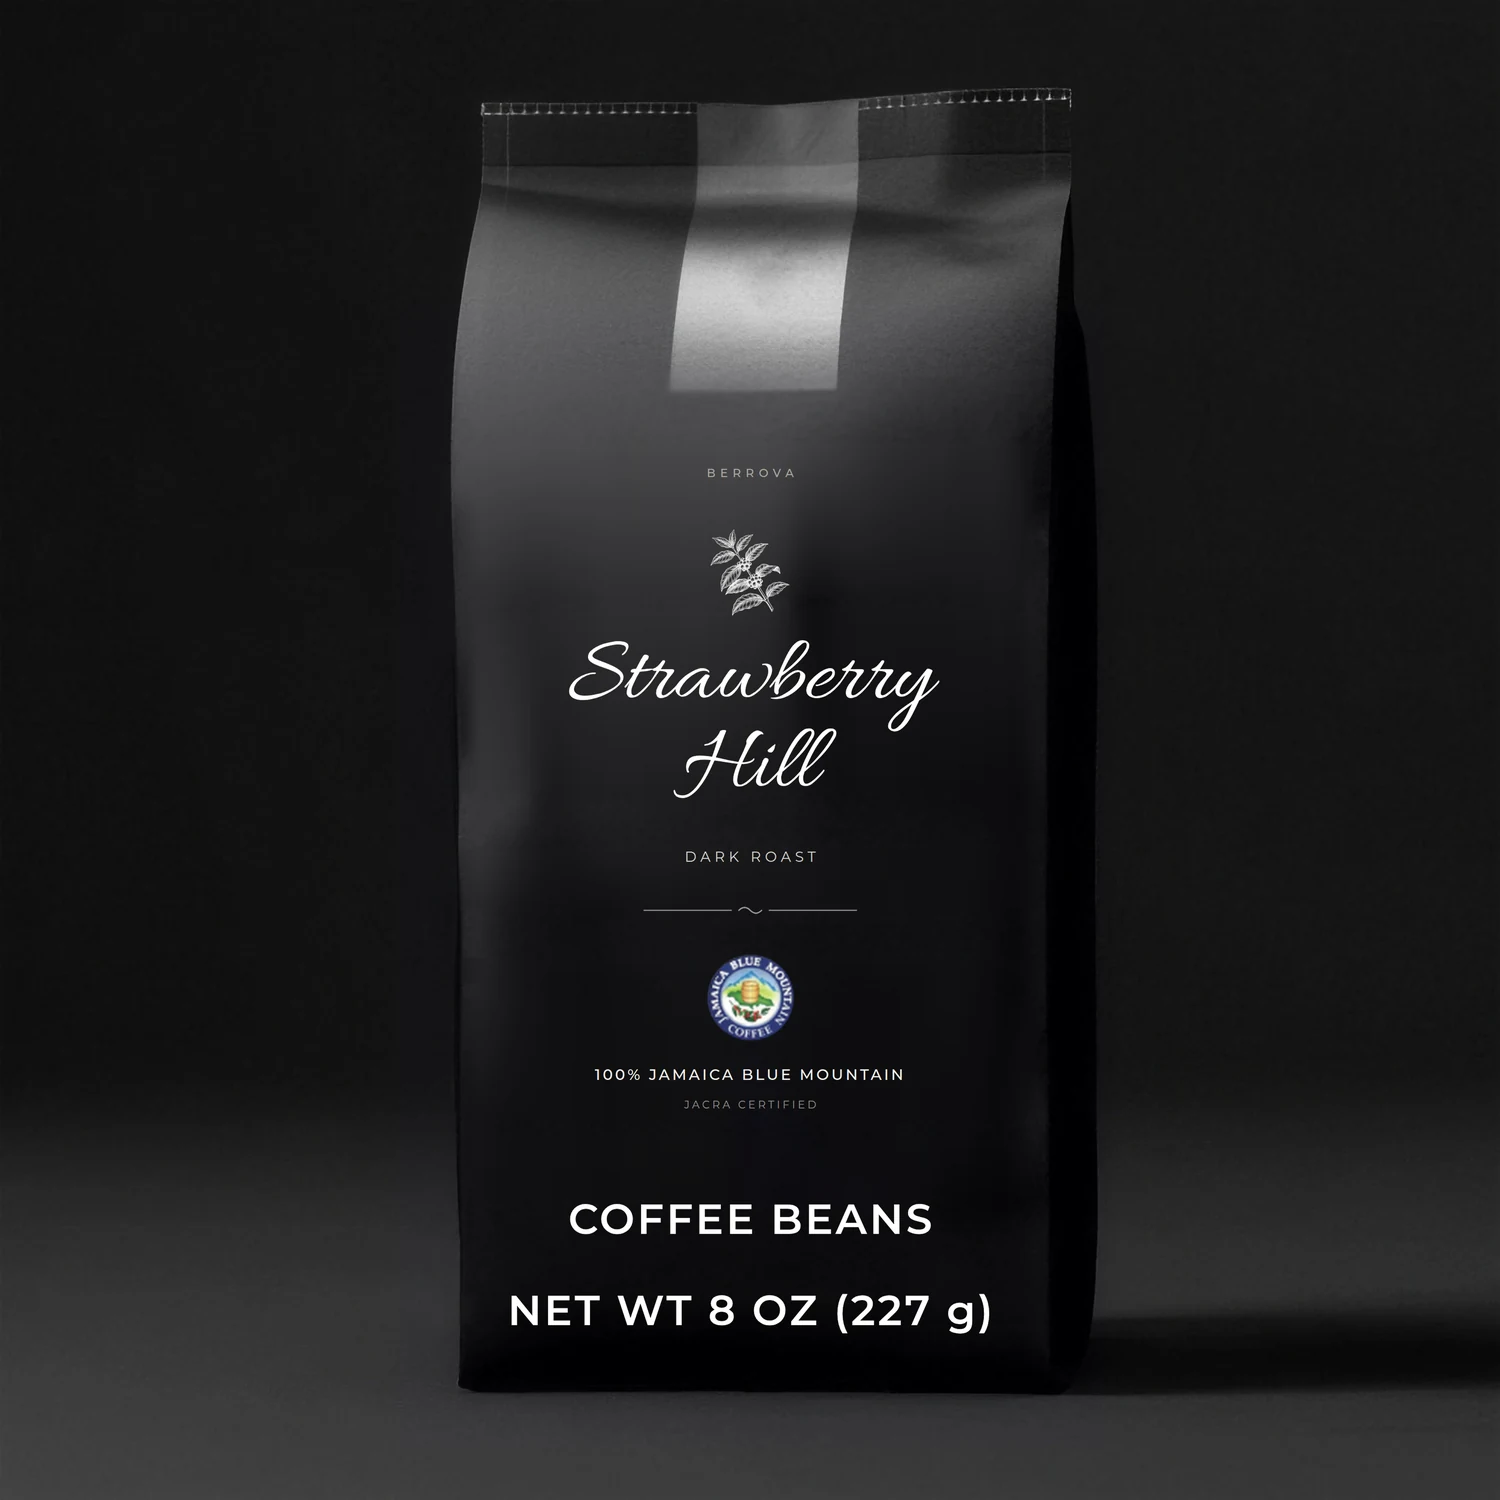
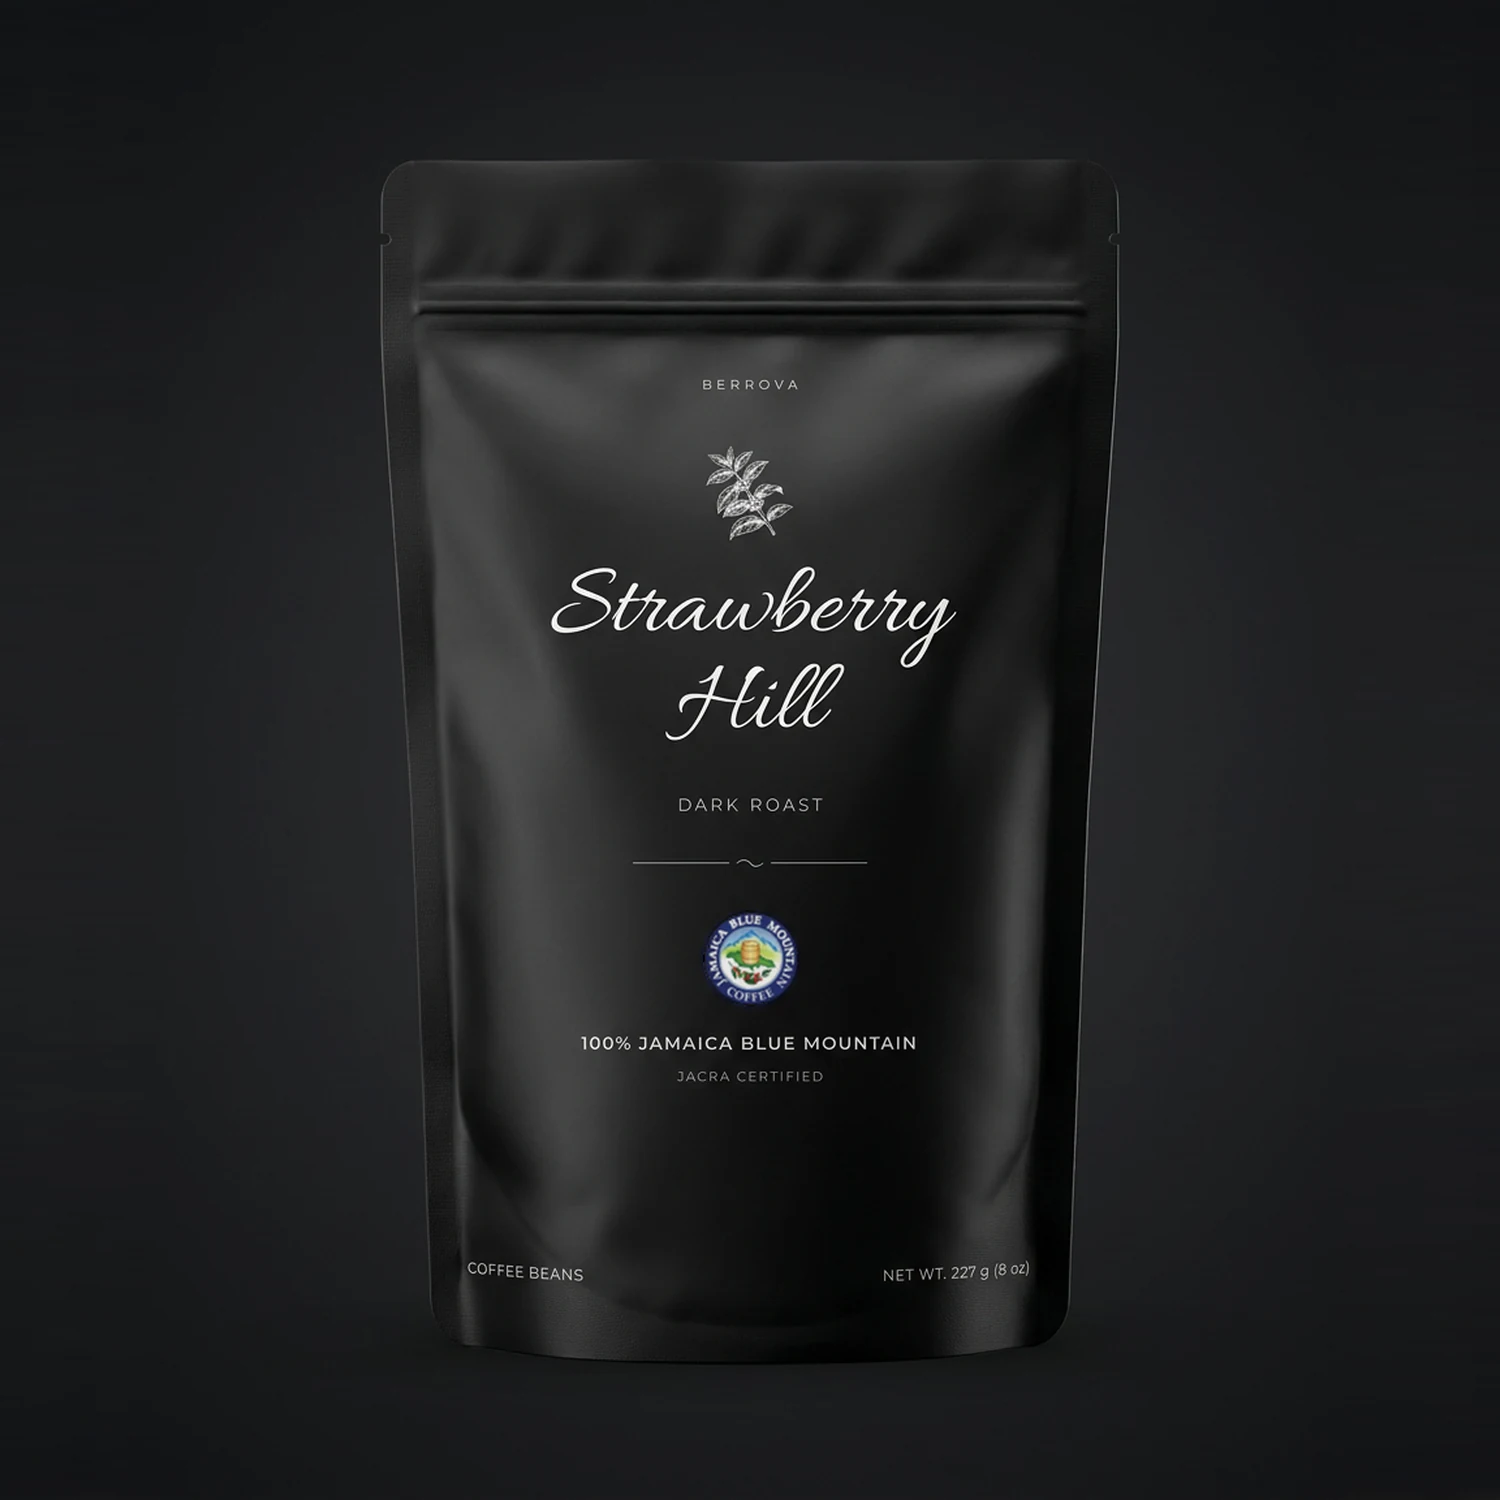
Show the stand-up pouch, not the block bag: stopgap product image
Kyle, looking at the live store on 2026-09-26: "its not the right bag".

He is right. The product image was our gated 8 oz panel composited onto a
photograph of a squared, side-gusseted block bag with a flat crimped top. He
ruled a stand-up pouch with a bottom gusset on 2026-09-22, and that same day
the comment above this slot recorded the shape gap and parked it until our
own pouch is printed and photographed. Five days before the drop he ruled the
wrong shape comes off now, stopgap first, proper fix behind it.

This is the stopgap. The image is now the stand-up pouch render he picked on
2026-09-24 for the first Instagram post, fitted to the 1500 px square this slot
has always held so neither the store gallery nor the home page changes layout.

WHAT THIS CROSSES, STATED RATHER THAN HIDDEN. The previous comment read
"Nothing is AI-generated: a rendered label is a rendered claim." This image is
a generated render, text included. The comment now quotes that line as
retracted and records why: the shape is the product and the shape it replaced
was not. Two consequences are written into the comment so nobody reads this
image as the label: its net quantity line reads "NET WT. 227 g (8 oz)", metric
first, where the panels we will print read "NET WT 8 OZ (227 g)"; and its type
size is unmeasured. The weight figure itself, 227 g, is correct. The comment
says it is interim and names the proper fix, a blank stand-up pouch base with
[…]

Changed region(s): [[0.0, 0.0613, 1.0, 1.0]]

diff --git a/src/content/site.ts b/src/content/site.ts
@@ -79,40 +79,52 @@ export const CLIPS = {
   // nutrition exemption the product relies on is void if a nutrition claim
   // appears in advertising.
   //
-  // So the corrected front panel is warped onto the photographed bag by
-  // deterministic image arithmetic. Nothing is AI-generated: a rendered label
-  // is a rendered claim.
+  // WHAT THIS IMAGE IS, as of 2026-09-26, and what it replaced.
   //
-  // WHAT THAT LEAVES OPEN.
+  // It is the stand-up pouch RENDER Kyle picked on 2026-09-24 for the first
+  // Instagram post, fitted to the 1500 px square this slot has always held.
+  // It replaces a composite that was RIGHT ABOUT THE PRINTING AND WRONG ABOUT
+  // THE BAG: our gated 8 oz panel, warped by image arithmetic onto a
+  // photograph of a squared, side-gusseted block bag with a flat crimped top.
+  // Kyle ruled a stand-up pouch with a bottom gusset on 2026-09-22 (the
+  // decisions log, that row) and the block-bag shape was known and recorded
+  // in this comment the same day, to be closed "when our own pouch is printed
+  // and photographed". On 2026-09-26, five days before the drop, he looked at
+  // the live store and ruled the wrong shape comes off the site NOW rather
+  // than then: "its not the right bag". Stopgap first, proper fix behind it.
   //
-  // CORRECTED 2026-09-22, the same day this comment was written. It used to
-  // say the customer receives the roaster's own JACRA-approved bag, which
-  // nobody here has seen. Kyle ruled hours later that WE PRINT OUR OWN POUCH
-  // and Island Coffees fills it in Jamaica. That premise is retired.
+  // THIS CROSSES A LINE THE PREVIOUS COMMENT DREW, AND SAYS SO. It used to
+  // read "Nothing is AI-generated: a rendered label is a rendered claim." This
+  // image IS a generated render, text and all. It is here because the shape
+  // it shows is the product and the shape it replaced was not, and Kyle chose
+  // that trade with the cost stated. Two consequences, both real:
   //
-  // The limit is unchanged; its reason changed. This image is our
-  // specification, not a photograph of the shipped product, and no copy on
-  // this site may describe it as one, because THE POUCH IT SHOWS HAS NOT BEEN
-  // PRINTED. Two gaps now, not one: the artwork is ours and correct, and the
-  // bag shape under it is still the roaster's. Kyle ruled a stand-up pouch
-  // with a bottom gusset; this photograph is a squared, side-gusseted bag
-  // with a flat zip top. It closes when our own pouch is printed and
-  // photographed, not when Paula sends anything.
+  //   1. The text on this pouch is NOT our print-ready artwork. Its net
+  //      quantity line reads "NET WT. 227 g (8 oz)", metric first; the gated
+  //      panels we will actually print read "NET WT 8 OZ (227 g)". The weight
+  //      itself is correct, 227 g, which is the one figure the previous
+  //      fix existed to get right. Its type size is unmeasured and ungated.
+  //      Nothing on this site may quote this image as the label.
+  //   2. It is INTERIM. The proper fix is a blank stand-up pouch base at
+  //      full resolution with the gated panel composited onto it through the
+  //      vault's existing pipeline, warp proof re-run, provenance recorded.
+  //      When that lands this comment is rewritten again, not appended to.
+  //
+  // What did not change: this is still our specification of the product, not
+  // a photograph of a shipped unit, and no copy on this site may describe it
+  // as one, because THE POUCH IT SHOWS HAS NOT BEEN PRINTED.
   //
   // Where this lives:
-  //   Strawberry Hill Reserve/08-PRODUCTS-OFFERS/brand-assets/bag-composite.gen.py
-  //   Strawberry Hill Reserve/08-PRODUCTS-OFFERS/brand-assets/bag-front-composited.provenance.json
-  //   Strawberry Hill Reserve/00-CONTEXT/ground-truth.md
-  //   Strawberry Hill Reserve/01-COMPANY/decisions-log.md   (2026-09-22 row)
+  //   Strawberry Hill Reserve/08-PRODUCTS-OFFERS/brand-assets/std-scene-40-catalogue-hero-roundel-fixed.png
+  //     (the source render, 928 x 1152, sha256 a5e59004...)
+  //   Strawberry Hill Reserve/08-PRODUCTS-OFFERS/pouch-specification.md   (construction, section 1)
+  //   Strawberry Hill Reserve/01-COMPANY/decisions-log.md   (2026-09-22 row: own pouch, stand-up, bottom gusset)
   //
-  // REBUILT 2026-09-24 on the real pouch dimensions. The 8 oz panel underneath
-  // this composite had been rendered at an ASSUMED 5.0 x 8.0 in; the pouch spec
-  // gives 125 x 200 mm, so the panel is now 4.92 x 7.87 in and the composite was
-  // rebuilt on it. The change is invisible: mean absolute difference 0.81 of 255
-  // across the frame, 1.1 per cent of pixels moving at all. It is a PROVENANCE
-  // fix, not a visual one, and it is worth making only because serving an image
-  // built from retired dimensions is the stale-as-current defect the vault tags
-  // as Poisoning. The declaration it carries is unchanged: NET WT 8 OZ (227 g).
+  // How the square was made, so it can be redone: the render was scaled to
+  // 1500 px tall with Lanczos, centred, and the 146 px either side filled by
+  // stretching that row's own outermost columns rather than a flat colour,
+  // then softened, so the vignette carries across. Measured step at the join:
+  // under 2 levels of 255 on every sampled row.
   bag: import.meta.env.BASE_URL + "assets/img/bag-front.webp",
   certMark: import.meta.env.BASE_URL + "assets/img/jbm-cert-mark.webp",
 };
